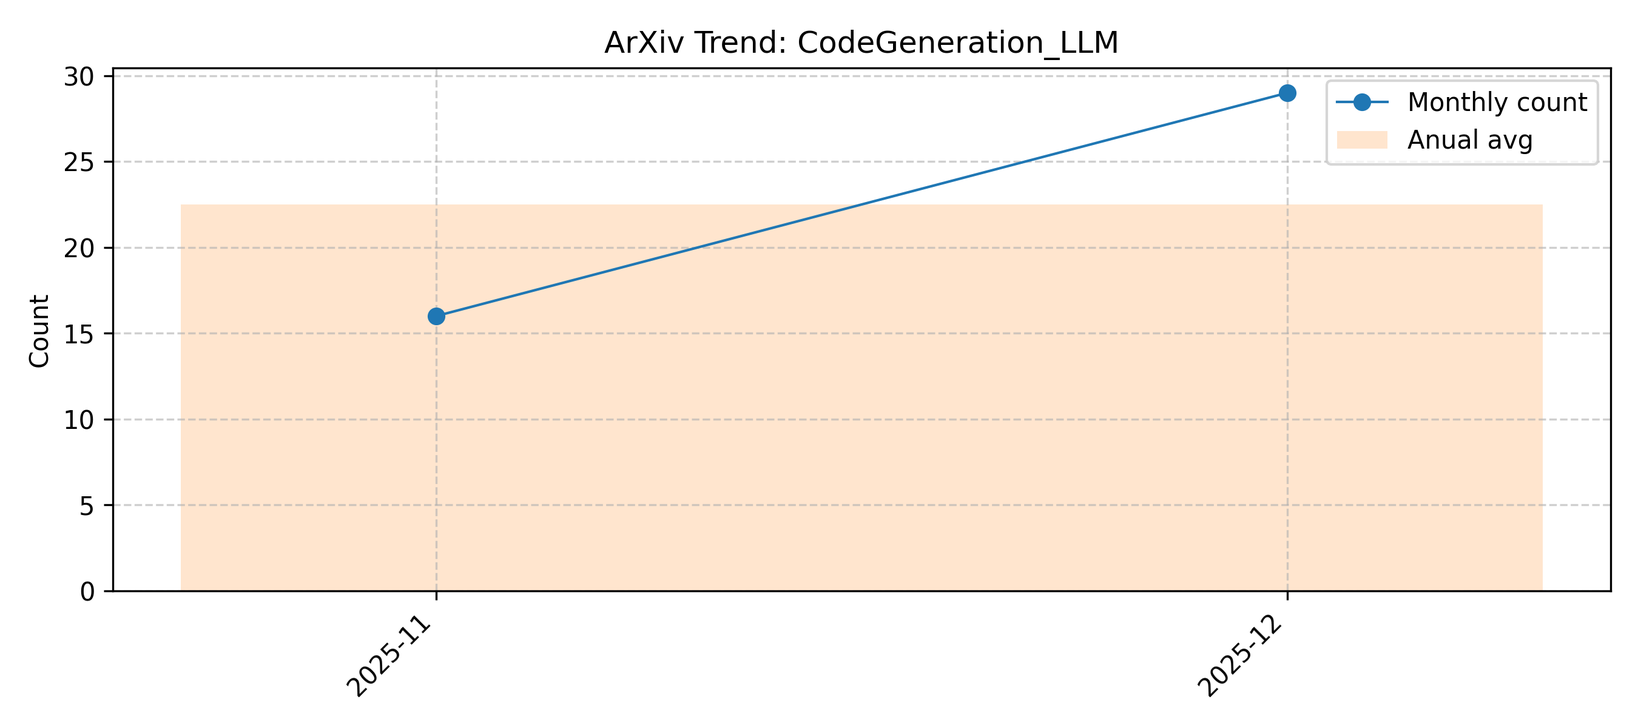
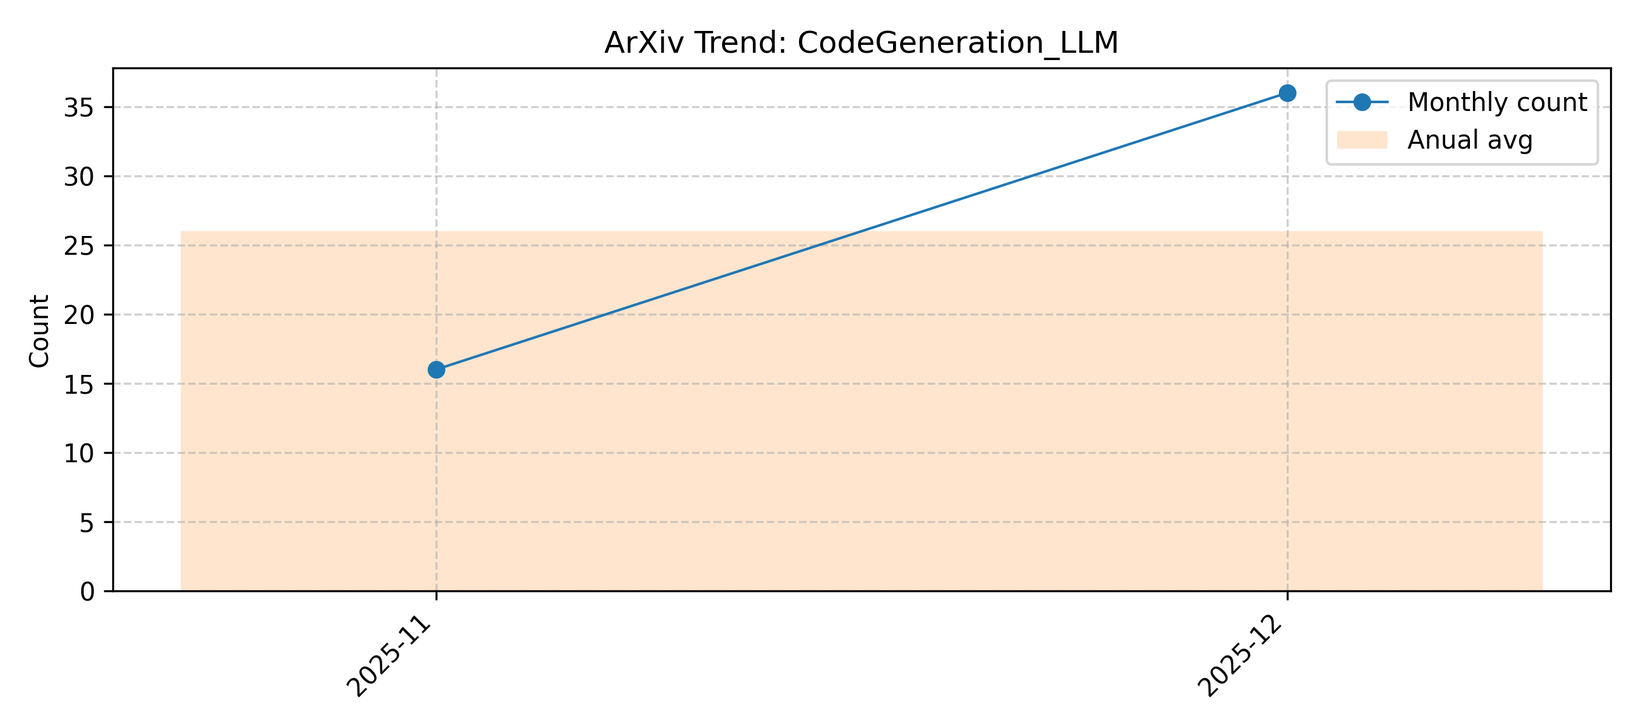
Auto update: 2025-12-11 08:00:01

diff --git a/CodeGeneration_LLM.md b/CodeGeneration_LLM.md
@@ -1,6 +1,6 @@
 # CodeGeneration_LLM
 
-> Updated on 2025.12.10
+> Updated on 2025.12.11
 
 [🔙 Back to Index](README.md)
 
@@ -8,6 +8,13 @@
 
 | Date | Title | Categories | Abstract | PDF | Code |
 |:---|:---|:---|:---|:---|:---|
+|**2025-12-09**|**No Labels, No Problem: Training Visual Reasoners with Multimodal Verifiers**|cs.CV, cs.AI| <details><summary>Full Abstract</summary>Visual reasoning is challenging, requiring both precise object grounding and understanding complex spatial relationships. Existing methods fall into two camps: language-only chain-of-thought approaches, which demand large-scale (image, query, answer) supervision, and program-synthesis approaches which use pre-trained models and avoid training, but suffer from flawed logic and erroneous grounding. We propose an annotation-free training framework that improves both reasoning and grounding. Our framework uses AI-powered verifiers: an LLM verifier refines LLM reasoning via reinforcement learning, while a VLM verifier strengthens visual grounding through automated hard-negative mining, eliminating the need for ground truth labels. This design combines the strengths of modern AI systems: advanced language-only reasoning models for decomposing spatial queries into simpler subtasks, and strong vision specialist models improved via performant VLM critics. We evaluate our approach across diverse spatial reasoning tasks, and show that our method improves visual reasoning and surpasses open-source and proprietary models, while with our improved visual grounding model we further outperform recent text-only visual reasoning methods. Project webpage: https://glab-caltech.github.io/valor/</details>|[2512.08889v1](http://arxiv.org/abs/2512.08889v1)| null|
+|**2025-12-09**|**SimpleDevQA: Benchmarking Large Language Models on Development Knowledge QA**|cs.SE| <details><summary>Full Abstract</summary>The Development Knowledge Question Answering (Dev Knowledge QA) task aims to provide natural language answers to knowledge-seeking questions during software development. To investigate its importance and to what extent it has been explored, we analyze real user-LLM dialogues from WildChat and find that: (1) The Dev Knowledge QA task accounts for 39.6% of interactions(highest among all tasks), revealing broad knowledge needs beyond code generation (32.3%). (2) Only 27.5% of real Dev Knowledge QA dialogues focus on code understanding, leaving out development knowledge-seeking. (3) Only 17.1% of real-world Dev Knowledge QA dialogues can be used for constructing a benchmark. Existing benchmarks have two primary limitations for evaluating the Dev Knowledge QA capability of LLMs. First, existing benchmarks offer a limited development knowledge scope, mainly focusing on code understanding and neglecting broader knowledge during development. Second, some benchmarks are not built from real user queries. To bridge this gap, we design a three-phase pipeline that transforms real-world dialogue into simple development knowledge-seeking QA pairs. Through this pipeline, we introduce SimpleDevQA, a multilingual benchmark derived from real user dialogues. It contains 2,740 QA pairs in three languages (English, Chinese, and Russian), and focuses on questions with unique, short, and verifiable answers for accurate and simple evaluation. Experiments show that: Code LLMs generally outperform general LLMs of similar scale; Knowledge injection with the Retrieval-Augmented Generation (RAG) strategy can boost LLM accuracy by 11.3% on average; LLMs show systematic overconfidence in Dev Knowledge QA, and the answering accuracy of LLMs shows a positive correlation with their stated confidence; Generally, LLMs with stronger code generation performance also exhibit stronger performance in Dev Knowledge QA.</details>|[2512.08867v1](http://arxiv.org/abs/2512.08867v1)| null|
+|**2025-12-09**|**Multicalibration for LLM-based Code Generation**|cs.SE, cs.AI, cs.LG| <details><summary>Full Abstract</summary>As AI-based code generation becomes widespread, researchers are investigating the calibration of code LLMs - ensuring their confidence scores faithfully represent the true likelihood of code correctness. To do so, we investigate multicalibration, which can capture additional factors about a coding problem, such as complexity, code length, or programming language used. We study four multicalibration approaches on three function synthesis benchmarks, using latest-generation code LLMs (Qwen3 Coder, GPT-OSS, DeepSeek-R1-Distill). Our results demonstrate that multicalibration can yield distinct improvements over both uncalibrated token likelihoods (+1.03 in skill score) and baseline calibrations (+0.37 in skill score). We study the influence of the aforementioned factors in ablations, and make our dataset (consisting of code generations, likelihoods, and correctness labels) available for future research on code LLM calibration.</details>|[2512.08810v1](http://arxiv.org/abs/2512.08810v1)| null|
+|**2025-12-09**|**Autonomous Issue Resolver: Towards Zero-Touch Code Maintenance**|cs.AI| <details><summary>Full Abstract</summary>Recent advances in Large Language Models have revolutionized function-level code generation; however, repository-scale Automated Program Repair (APR) remains a significant challenge. Current approaches typically employ a control-centric paradigm, forcing agents to navigate complex directory structures and irrelevant control logic. In this paper, we propose a paradigm shift from the standard Code Property Graphs (CPGs) to the concept of Data Transformation Graph (DTG) that inverts the topology by modeling data states as nodes and functions as edges, enabling agents to trace logic defects through data lineage rather than control flow. We introduce a multi-agent framework that reconciles data integrity navigation with control flow logic. Our theoretical analysis and case studies demonstrate that this approach resolves the "Semantic Trap" inherent in standard RAG systems in modern coding agents. We provide a comprehensive implementation in the form of Autonomous Issue Resolver (AIR), a self-improvement system for zero-touch code maintenance that utilizes neuro-symbolic reasoning and uses the DTG structure for scalable logic repair. Our approach has demonstrated good results on several SWE benchmarks, reaching a resolution rate of 87.1% on SWE-Verified benchmark. Our approach directly addresses the core limitations of current AI code-assistant tools and tackles the critical need for a more robust foundation for our increasingly software-dependent world.</details>|[2512.08492v1](http://arxiv.org/abs/2512.08492v1)| null|
+|**2025-12-09**|**DeepFeature: Iterative Context-aware Feature Generation for Wearable Biosignals**|cs.AI| <details><summary>Full Abstract</summary>Biosignals collected from wearable devices are widely utilized in healthcare applications. Machine learning models used in these applications often rely on features extracted from biosignals due to their effectiveness, lower data dimensionality, and wide compatibility across various model architectures. However, existing feature extraction methods often lack task-specific contextual knowledge, struggle to identify optimal feature extraction settings in high-dimensional feature space, and are prone to code generation and automation errors. In this paper, we propose DeepFeature, the first LLM-empowered, context-aware feature generation framework for wearable biosignals. DeepFeature introduces a multi-source feature generation mechanism that integrates expert knowledge with task settings. It also employs an iterative feature refinement process that uses feature assessment-based feedback for feature re-selection. Additionally, DeepFeature utilizes a robust multi-layer filtering and verification approach for robust feature-to-code translation to ensure that the extraction functions run without crashing. Experimental evaluation results show that DeepFeature achieves an average AUROC improvement of 4.21-9.67% across eight diverse tasks compared to baseline methods. It outperforms state-of-the-art approaches on five tasks while maintaining comparable performance on the remaining tasks.</details>|[2512.08379v1](http://arxiv.org/abs/2512.08379v1)| null|
+|**2025-12-09**|**Token Sugar: Making Source Code Sweeter for LLMs through Token-Efficient Shorthand**|cs.SE| <details><summary>Full Abstract</summary>Large language models (LLMs) have shown exceptional performance in code generation and understanding tasks, yet their high computational costs hinder broader adoption. One important factor is the inherent verbosity of programming languages, such as unnecessary formatting elements and lengthy boilerplate code. This leads to inflated token counts in both input and generated outputs, which increases inference costs and slows down the generation process. Prior work improves this through simplifying programming language grammar, reducing token usage across both code understanding and generation tasks. However, it is confined to syntactic transformations, leaving significant opportunities for token reduction unrealized at the semantic level.   In this work, we propose Token Sugar, a concept that replaces frequent and verbose code patterns with reversible, token-efficient shorthand in the source code. To realize this concept in practice, we designed a systematic solution that mines high-frequency, token-heavy patterns from a code corpus, maps each to a unique shorthand, and integrates them into LLM pretraining via code transformation. With this solution, we obtain 799 (code pattern, shorthand) pairs, which can reduce up to 15.1% token count in the source code and is complementary to existing syntax-focused methods. We further trained three widely used LLMs on Token Sugar-augmented data. Experimental results show that these models not only achieve significant token savings (up to 11.2% reduction) during generation but also maintain near-identical Pass@1 scores compared to baselines trained on unprocessed code.</details>|[2512.08266v1](http://arxiv.org/abs/2512.08266v1)| null|
+|**2025-12-09**|**Secure or Suspect? Investigating Package Hallucinations of Shell Command in Original and Quantized LLMs**|cs.SE| <details><summary>Full Abstract</summary>Large Language Models for code (LLMs4Code) are increasingly used to generate software artifacts, including library and package recommendations in languages such as Go. However, recent evidence shows that LLMs frequently hallucinate package names or generate dependencies containing known security vulnerabilities, posing significant risks to developers and downstream software supply chains. At the same time, quantization has become a widely adopted technique to reduce inference cost and enable deployment of LLMs on resource-constrained environments. Despite its popularity, little is known about how quantization affects the correctness and security of LLM-generated software dependencies while generating shell commands for package installation.   In this work, we conduct the first systematic empirical study of the impact of quantization on package hallucination and vulnerability risks in LLM-generated Go packages. We evaluate five Qwen model sizes under full-precision, 8-bit, and 4-bit quantization across three datasets (SO, MBPP, and paraphrase). Our results show that quantization substantially increases the package hallucination rate (PHR), with 4-bit models exhibiting the most severe degradation. We further find that even among the correctly generated packages, the vulnerability presence rate (VPR) rises as precision decreases, indicating elevated security risk in lower-precision models. Finally, our analysis of hallucinated outputs reveals that most fabricated packages resemble realistic URL-based Go module paths, such as most commonly malformed or non-existent GitHub and golang.org repositories, highlighting a systematic pattern in how LLMs hallucinate dependencies. Overall, our findings provide actionable insights into the reliability and security implications of deploying quantized LLMs for code generation and dependency recommendation.</details>|[2512.08213v1](http://arxiv.org/abs/2512.08213v1)| null|
 |**2025-12-08**|**Bridging Code Graphs and Large Language Models for Better Code Understanding**|cs.CL, cs.SE| <details><summary>Full Abstract</summary>Large Language Models (LLMs) have demonstrated remarkable performance in code intelligence tasks such as code generation, summarization, and translation. However, their reliance on linearized token sequences limits their ability to understand the structural semantics of programs. While prior studies have explored graphaugmented prompting and structure-aware pretraining, they either suffer from prompt length constraints or require task-specific architectural changes that are incompatible with large-scale instructionfollowing LLMs. To address these limitations, this paper proposes CGBridge, a novel plug-and-play method that enhances LLMs with Code Graph information through an external, trainable Bridge module. CGBridge first pre-trains a code graph encoder via selfsupervised learning on a large-scale dataset of 270K code graphs to learn structural code semantics. It then trains an external module to bridge the modality gap among code, graph, and text by aligning their semantics through cross-modal attention mechanisms. Finally, the bridge module generates structure-informed prompts, which are injected into a frozen LLM, and is fine-tuned for downstream code intelligence tasks. Experiments show that CGBridge achieves notable improvements over both the original model and the graphaugmented prompting method. Specifically, it yields a 16.19% and 9.12% relative gain in LLM-as-a-Judge on code summarization, and a 9.84% and 38.87% relative gain in Execution Accuracy on code translation. Moreover, CGBridge achieves over 4x faster inference than LoRA-tuned models, demonstrating both effectiveness and efficiency in structure-aware code understanding.</details>|[2512.07666v1](http://arxiv.org/abs/2512.07666v1)| null|
 |**2025-12-08**|**Do LLMs Trust the Code They Write?**|cs.SE, cs.AI, cs.LG| <details><summary>Full Abstract</summary>Despite the effectiveness of large language models (LLMs) for code generation, they often output incorrect code. One reason is that model output probabilities are often not well-correlated with correctness, and reflect only the final output of the generation process. Inspired by findings that LLMs internally encode concepts like truthfulness, this paper explores if LLMs similarly represent code correctness. Specifically, we identify a correctness representation inside LLMs by contrasting the hidden states between pairs of correct and incorrect code for the same programming tasks. By experimenting on four LLMs, we show that exploiting this extracted correctness representation outperforms standard log-likelihood ranking, as well as verbalized model confidence. Furthermore, we explore how this internal correctness signal can be used to select higher-quality code samples, without requiring test execution. Ultimately, this work demonstrates how leveraging internal representations can enhance code generation systems and make LLMs more reliable, thus improving confidence in automatically generated code.</details>|[2512.07404v1](http://arxiv.org/abs/2512.07404v1)| null|
 |**2025-12-08**|**START: Spatial and Textual Learning for Chart Understanding**|cs.CV, cs.AI| <details><summary>Full Abstract</summary>Chart understanding is crucial for deploying multimodal large language models (MLLMs) in real-world scenarios such as analyzing scientific papers and technical reports. Unlike natural images, charts pair a structured visual layout (spatial property) with an underlying data representation (textual property) -- grasping both is essential for precise, fine-grained chart reasoning. Motivated by this observation, we propose START, the Spatial and Textual learning for chART understanding. Specifically, we introduce (i) chart-element grounding and (ii) chart-to-code generation to strengthen an MLLM's understanding of both chart visual layout and data details. To facilitate spatial and textual learning, we propose the START-Dataset generated with a novel data-generation pipeline that first leverages an MLLM to translate real chart images into executable chart code, recovering the underlying data representation while preserving the visual distribution of real-world charts. We then evolve the code with a Large Language Model (LLM) to ascertain the positions of chart elements that capture the chart's visual structure, addressing challenges that existing methods cannot handle. To evaluate a model's ability to understand chart spatial structures, we propose the Chart Spatial understanding Benchmark (CS-Bench), filling a critical gap in comprehensive chart understanding evaluation. Leveraging spatial and textual learning, START delivers consistent gains across model sizes and benchmarks over the base models and surpasses prior state-of-the-art by a clear margin. Code, data and models will be publicly available.</details>|[2512.07186v1](http://arxiv.org/abs/2512.07186v1)| null|
@@ -23,7 +30,7 @@
 |**2025-12-04**|**Counting Without Running: Evaluating LLMs' Reasoning About Code Complexity**|cs.DC, cs.AI, cs.PF| <details><summary>Full Abstract</summary>Modern GPU software stacks demand developers who can anticipate performance bottlenecks before ever launching a kernel; misjudging floating-point workloads upstream can derail tuning, scheduling, and even hardware procurement. Yet despite rapid progress in code generation, today's Large Language Models (LLMs) are rarely tested on this kind of forward-looking reasoning. We close that gap with gpuFLOPBench, a benchmark that asks models to "count without running" by predicting single and double-precision FLOP counts for 577 CUDA kernels drawn from HeCBench, annotated with ground-truth profiles and eight execution attributes that distinguish trivially analyzable code from kernels whose FLOPs depend on hidden compiler or runtime behavior. Evaluating current closed-source reasoning models shows clear but uneven progress: the newest LLMs achieve perfect classification on straightforward kernels but still incur multiple order-of-magnitude errors whenever implicit FLOPs arise from division, intrinsic math functions, or common subexpressions. These results surface a core limitation of existing code assistants -- the inability to internalize hardware-specific microcode effects -- and position gpuFLOPBench as a focused testbed for developing LLM tooling that can reason about performance with the same rigor as experienced GPU developers. Sources are available at our repository: https://github.com/Scientific-Computing-Lab/gpuFLOPBench</details>|[2512.04355v1](http://arxiv.org/abs/2512.04355v1)| null|
 |**2025-12-03**|**DAComp: Benchmarking Data Agents across the Full Data Intelligence Lifecycle**|cs.CL, cs.AI| <details><summary>Full Abstract</summary>Real-world enterprise data intelligence workflows encompass data engineering that turns raw sources into analytical-ready tables and data analysis that convert those tables into decision-oriented insights. We introduce DAComp, a benchmark of 210 tasks that mirrors these complex workflows. Data engineering (DE) tasks require repository-level engineering on industrial schemas, including designing and building multi-stage SQL pipelines from scratch and evolving existing systems under evolving requirements. Data analysis (DA) tasks pose open-ended business problems that demand strategic planning, exploratory analysis through iterative coding, interpretation of intermediate results, and the synthesis of actionable recommendations. Engineering tasks are scored through execution-based, multi-metric evaluation. Open-ended tasks are assessed by a reliable, experimentally validated LLM-judge, which is guided by hierarchical, meticulously crafted rubrics. Our experiments reveal that even state-of-the-art agents falter on DAComp. Performance on DE tasks is particularly low, with success rates under 20%, exposing a critical bottleneck in holistic pipeline orchestration, not merely code generation. Scores on DA tasks also average below 40%, highlighting profound deficiencies in open-ended reasoning and demonstrating that engineering and analysis are distinct capabilities. By clearly diagnosing these limitations, DAComp provides a rigorous and realistic testbed to drive the development of truly capable autonomous data agents for enterprise settings. Our data and code are available at https://da-comp.github.io</details>|[2512.04324v1](http://arxiv.org/abs/2512.04324v1)| null|
 |**2025-12-03**|**WildCode: An Empirical Analysis of Code Generated by ChatGPT**|cs.CR, cs.SE| <details><summary>Full Abstract</summary>LLM models are increasingly used to generate code, but the quality and security of this code are often uncertain. Several recent studies have raised alarm bells, indicating that such AI-generated code may be particularly vulnerable to cyberattacks. However, most of these studies rely on code that is generated specifically for the study, which raises questions about the realism of such experiments. In this study, we perform a large-scale empirical analysis of real-life code generated by ChatGPT. We evaluate code generated by ChatGPT both with respect to correctness and security and delve into the intentions of users who request code from the model. Our research confirms previous studies that used synthetic queries and yielded evidence that LLM-generated code is often inadequate with respect to security. We also find that users exhibit little curiosity about the security features of the code they ask LLMs to generate, as evidenced by their lack of queries on this topic.</details>|[2512.04259v1](http://arxiv.org/abs/2512.04259v1)| null|
-|**2025-12-03**|**Understanding LLM Reasoning for Abstractive Summarization**|cs.CL| <details><summary>Full Abstract</summary>While the reasoning capabilities of Large Language Models (LLMs) excel in analytical tasks such as mathematics and code generation, their utility for abstractive summarization remains widely assumed but largely unverified. To bridge this gap, we first tailor general reasoning strategies to the summarization domain. We then conduct a systematic, large scale comparative study of 8 reasoning strategies and 3 Large Reasoning Models (LRMs) across 8 diverse datasets, assessing both summary quality and faithfulness. Our findings show that reasoning is not a universal solution and its effectiveness is highly dependent on the specific strategy and context. Specifically, we observe a trade-off between summary quality and factual faithfulness: explicit reasoning strategies tend to improve fluency at the expense of factual grounding, while implicit reasoning in LRMs exhibits the inverse pattern. Furthermore, increasing an LRM's internal reasoning budget does not improve, and can even hurt, factual consistency, suggesting that effective summarization demands faithful compression rather than creative over-thinking.</details>|[2512.03503v1](http://arxiv.org/abs/2512.03503v1)| null|
+|**2025-12-08**|**Understanding LLM Reasoning for Abstractive Summarization**|cs.CL| <details><summary>Full Abstract</summary>While the reasoning capabilities of Large Language Models (LLMs) excel in analytical tasks such as mathematics and code generation, their utility for abstractive summarization remains widely assumed but largely unverified. To bridge this gap, we first tailor general reasoning strategies to the summarization domain. We then conduct a systematic, large scale comparative study of 8 reasoning strategies and 3 Large Reasoning Models (LRMs) across 8 diverse datasets, assessing both summary quality and faithfulness. Our findings show that reasoning is not a universal solution and its effectiveness is highly dependent on the specific strategy and context. Specifically, we observe a trade-off between summary quality and factual faithfulness: explicit reasoning strategies tend to improve fluency at the expense of factual grounding, while implicit reasoning in LRMs exhibits the inverse pattern. Furthermore, increasing an LRM's internal reasoning budget does not improve, and can even hurt, factual consistency, suggesting that effective summarization demands faithful compression rather than creative over-thinking.</details>|[2512.03503v2](http://arxiv.org/abs/2512.03503v2)| null|
 |**2025-12-02**|**When Do Symbolic Solvers Enhance Reasoning in Large Language Models?**|cs.AI| <details><summary>Full Abstract</summary>Large Reasoning Models (LRMs) achieve strong performance on complex reasoning tasks by generating long Chains of Thought (CoTs). However, this paradigm might incur substantial token overhead, especially when models "overthink" by producing lengthy reasoning chains, which can even lead to incorrect answers. A promising direction is the symbolic-solver-integrated approach, which leverages the code generation capabilities of LLMs to translate reasoning tasks into executable code and then solve them with a symbolic solver. In this paper, we explore an open question of when the conventional long-CoT can be enhanced by symbolic solvers. Our experimental results show that the symbolic-solver-integrated method only helps when the problem requires limited implicit reasoning but involves an ample search space. The latest LLMs, like GPT-4o, show better performance on deductive problems with shallow reasoning depth, while the symbolic-solver-integrated method significantly improves the LLMs' performance in constraint satisfaction problems that require repeated backtracks. When a declarative exemplar is provided, even CodeLlama-13B can outperform GPT-4o in difficult Zebra puzzles.</details>|[2512.03272v1](http://arxiv.org/abs/2512.03272v1)| null|
 |**2025-12-02**|**Towards Observation Lakehouses: Living, Interactive Archives of Software Behavior**|cs.SE| <details><summary>Full Abstract</summary>Code-generating LLMs are trained largely on static artifacts (source, comments, specifications) and rarely on materializations of run-time behavior. As a result, they readily internalize buggy or mislabeled code. Since non-trivial semantic properties are undecidable in general, the only practical way to obtain ground-truth functionality is by dynamic observation of executions. In prior work, we addressed representation with Sequence Sheets, Stimulus-Response Matrices (SRMs), and Stimulus-Response Cubes (SRCs) to capture and compare behavior across tests, implementations, and contexts. These structures make observation data analyzable offline and reusable, but they do not by themselves provide persistence, evolution, or interactive analytics at scale. In this paper, therefore, we introduce observation lakehouses that operationalize continual SRCs: a tall, append-only observations table storing every actuation (stimulus, response, context) and SQL queries that materialize SRC slices on demand. Built on Apache Parquet + Iceberg + DuckDB, the lakehouse ingests data from controlled pipelines (LASSO) and CI pipelines (e.g., unit test executions), enabling n-version assessment, behavioral clustering, and consensus oracles without re-execution. On a 509-problem benchmark, we ingest $\approx$8.6M observation rows ($<$51MiB) and reconstruct SRM/SRC views and clusters in $<$100ms on a laptop, demonstrating that continual behavior mining is practical without a distributed cluster of machines. This makes behavioral ground truth first-class alongside other run-time data and provides an infrastructure path toward behavior-aware evaluation and training. The Observation Lakehouse, together with the accompanying dataset, is publicly available as an open-source project on GitHub: https://github.com/SoftwareObservatorium/observation-lakehouse</details>|[2512.02795v1](http://arxiv.org/abs/2512.02795v1)| null|
 |**2025-12-02**|**Feedback Loops and Code Perturbations in LLM-based Software Engineering: A Case Study on a C-to-Rust Translation System**|cs.SE, cs.AI| <details><summary>Full Abstract</summary>The advent of strong generative AI has a considerable impact on various software engineering tasks such as code repair, test generation, or language translation. While tools like GitHub Copilot are already in widespread use in interactive settings, automated approaches require a higher level of reliability before being usable in industrial practice. In this paper, we focus on three aspects that directly influence the quality of the results: a) the effect of automated feedback loops, b) the choice of Large Language Model (LLM), and c) the influence of behavior-preserving code changes.   We study the effect of these three variables on an automated C-to-Rust translation system. Code translation from C to Rust is an attractive use case in industry due to Rust's safety guarantees. The translation system is based on a generate-and-check pattern, in which Rust code generated by the LLM is automatically checked for compilability and behavioral equivalence with the original C code. For negative checking results, the LLM is re-prompted in a feedback loop to repair its output. These checks also allow us to evaluate and compare the respective success rates of the translation system when varying the three variables.   Our results show that without feedback loops LLM selection has a large effect on translation success. However, when the translation system uses feedback loops the differences across models diminish. We observe this for the average performance of the system as well as its robustness under code perturbations. Finally, we also identify that diversity provided by code perturbations can even result in improved system performance.</details>|[2512.02567v1](http://arxiv.org/abs/2512.02567v1)| null|

diff --git a/MA-CoEvo.md b/MA-CoEvo.md
@@ -1,6 +1,6 @@
 # MA-CoEvo
 
-> Updated on 2025.12.10
+> Updated on 2025.12.11
 
 [🔙 Back to Index](README.md)
 
@@ -8,6 +8,7 @@
 
 | Date | Title | Categories | Abstract | PDF | Code |
 |:---|:---|:---|:---|:---|:---|
+|**2025-12-09**|**Fed-SE: Federated Self-Evolution for Privacy-Constrained Multi-Environment LLM Agents**|cs.LG, cs.AI| <details><summary>Full Abstract</summary>LLM agents are widely deployed in complex interactive tasks, yet privacy constraints often preclude centralized optimization and co-evolution across dynamic environments. While Federated Learning (FL) has proven effective on static datasets, its extension to the open-ended self-evolution of agents remains underexplored. Directly applying standard FL is challenging: heterogeneous tasks and sparse, trajectory-level rewards introduce severe gradient conflicts, destabilizing the global optimization process. To bridge this gap, we propose Fed-SE, a Federated Self-Evolution framework for LLM agents. Fed-SE establishes a local evolution-global aggregation paradigm. Locally, agents employ parameter-efficient fine-tuning on filtered, high-return trajectories to achieve stable gradient updates. Globally, Fed-SE aggregates updates within a low-rank subspace that disentangles environment-specific dynamics, effectively reducing negative transfer across clients. Experiments across five heterogeneous environments demonstrate that Fed-SE improves average task success rates by approximately 18% over federated baselines, validating its effectiveness in robust cross-environment knowledge transfer in privacy-constrained deployments.</details>|[2512.08870v1](http://arxiv.org/abs/2512.08870v1)| null|
 |**2025-12-07**|**Leveraging LLMs to support co-evolution between definitions and instances of textual DSLs**|cs.SE, cs.AI, cs.PL| <details><summary>Full Abstract</summary>Software languages evolve over time for various reasons, such as the addition of new features. When the language's grammar definition evolves, textual instances that originally conformed to the grammar become outdated. For DSLs in a model-driven engineering context, there exists a plethora of techniques to co-evolve models with the evolving metamodel. However, these techniques are not geared to support DSLs with a textual syntax -- applying them to textual language definitions and instances may lead to the loss of information from the original instances, such as comments and layout information, which are valuable for software comprehension and maintenance. This study explores the potential of Large Language Model (LLM)-based solutions in achieving grammar and instance co-evolution, with attention to their ability to preserve auxiliary information when directly processing textual instances. By applying two advanced language models, Claude-3.5 and GPT-4o, and conducting experiments across seven case languages, we evaluated the feasibility and limitations of this approach. Our results indicate a good ability of the considered LLMs for migrating textual instances in small-scale cases with limited instance size, which are representative of a subset of cases encountered in practice. In addition, we observe significant challenges with the scalability of LLM-based solutions to larger instances, leading to insights that are useful for informing future research.</details>|[2512.06836v1](http://arxiv.org/abs/2512.06836v1)| null|
 |**2025-12-04**|**Embodied Co-Design for Rapidly Evolving Agents: Taxonomy, Frontiers, and Challenges**|cs.RO, cs.AI, cs.ET, eess.SY| <details><summary>Full Abstract</summary>Brain-body co-evolution enables animals to develop complex behaviors in their environments. Inspired by this biological synergy, embodied co-design (ECD) has emerged as a transformative paradigm for creating intelligent agents-from virtual creatures to physical robots-by jointly optimizing their morphologies and controllers rather than treating control in isolation. This integrated approach facilitates richer environmental interactions and robust task performance. In this survey, we provide a systematic overview of recent advances in ECD. We first formalize the concept of ECD and position it within related fields. We then introduce a hierarchical taxonomy: a lower layer that breaks down agent design into three fundamental components-controlling brain, body morphology, and task environment-and an upper layer that integrates these components into four major ECD frameworks: bi-level, single-level, generative, and open-ended. This taxonomy allows us to synthesize insights from more than one hundred recent studies. We further review notable benchmarks, datasets, and applications in both simulated and real-world scenarios. Finally, we identify significant challenges and offer insights into promising future research directions. A project associated with this survey has been created at https://github.com/Yuxing-Wang-THU/SurveyBrainBody.</details>|[2512.04770v1](http://arxiv.org/abs/2512.04770v1)| null|
 |**2025-12-02**|**The Evolutionary Ecology of Software: Constraints, Innovation, and the AI Disruption**|cs.SE, cond-mat.dis-nn| <details><summary>Full Abstract</summary>This chapter investigates the evolutionary ecology of software, focusing on the symbiotic relationship between software and innovation. An interplay between constraints, tinkering, and frequency-dependent selection drives the complex evolutionary trajectories of these socio-technological systems. Our approach integrates agent-based modeling and case studies, drawing on complex network analysis and evolutionary theory to explore how software evolves under the competing forces of novelty generation and imitation. By examining the evolution of programming languages and their impact on developer practices, we illustrate how technological artifacts co-evolve with and shape societal norms, cultural dynamics, and human interactions. This ecological perspective also informs our analysis of the emerging role of AI-driven development tools in software evolution. While large language models (LLMs) provide unprecedented access to information, their widespread adoption introduces new evolutionary pressures that may contribute to cultural stagnation, much like the decline of diversity in past software ecosystems. Understanding the evolutionary pressures introduced by AI-mediated software production is critical for anticipating broader patterns of cultural change, technological adaptation, and the future of software innovation.</details>|[2512.02953v1](http://arxiv.org/abs/2512.02953v1)| null|

diff --git a/README.md b/README.md
@@ -1,6 +1,6 @@
 # Daily ArXiv Papers
 
-> Last Updated: 2025.12.10
+> Last Updated: 2025.12.11
 
 This project provides daily updates on ArXiv papers regarding Multi-Agent LLMs, GUI Testing, and Code Generation. It builds upon the work of @bansky-cl, with refinements by @bbc00710086, and is currently deployed and maintained by zzz.
 

diff --git a/GUI_LLM_RL_MA.md b/GUI_LLM_RL_MA.md
@@ -1,6 +1,6 @@
 # GUI_LLM_RL_MA
 
-> Updated on 2025.12.10
+> Updated on 2025.12.11
 
 [🔙 Back to Index](README.md)
 

diff --git a/MA-CoEvo-RL.md b/MA-CoEvo-RL.md
@@ -1,6 +1,6 @@
 # MA-CoEvo-RL
 
-> Updated on 2025.12.10
+> Updated on 2025.12.11
 
 [🔙 Back to Index](README.md)
 
